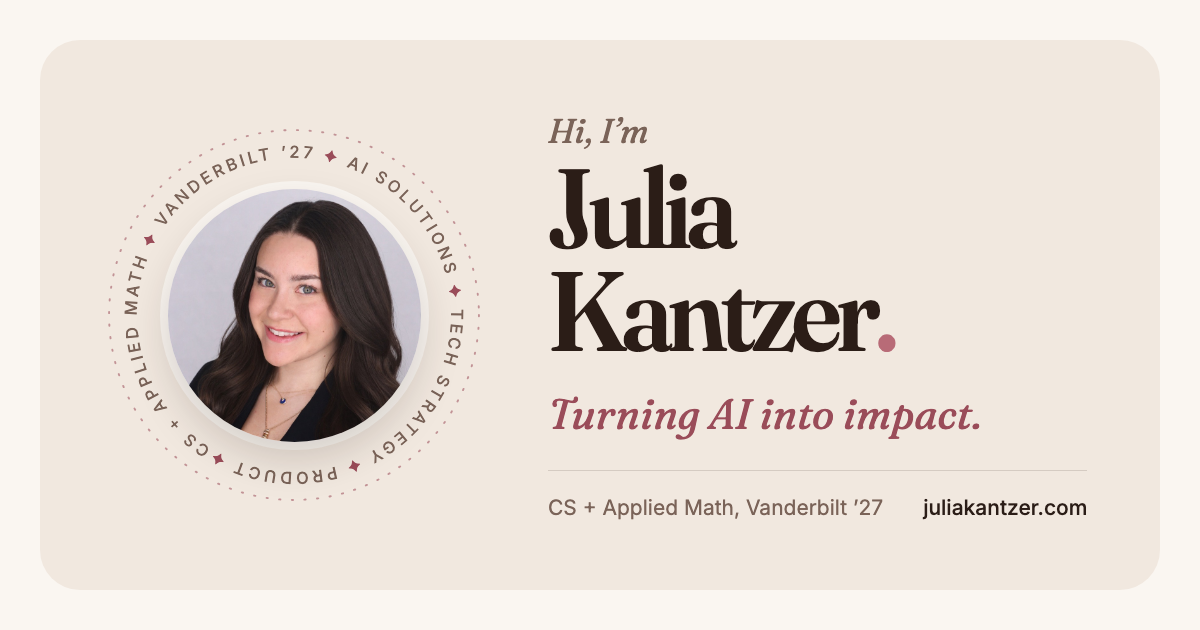
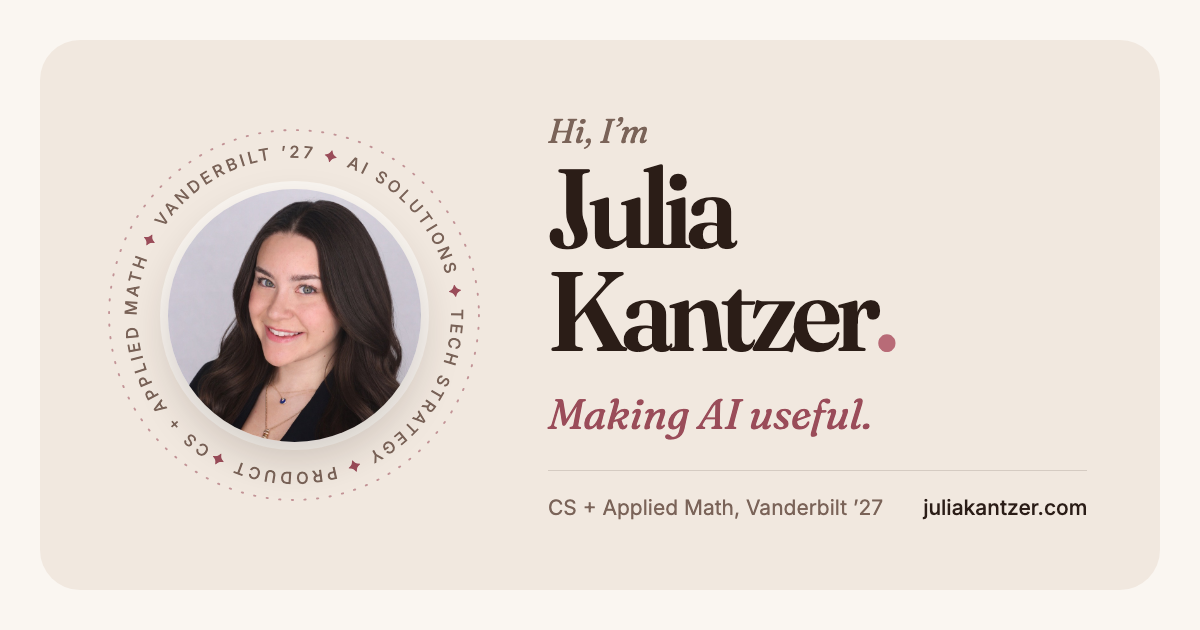
Change the tagline to "Making AI useful."
Updates the hero, the social preview image, and its alt text.

Changed region(s): [[0.4625, 0.6333, 0.8325, 0.6937]]

diff --git a/index.html b/index.html
@@ -21,7 +21,7 @@
     <meta property="og:image" content="https://www.juliakantzer.com/og-image.png?v=3" />
     <meta property="og:image:width" content="1200" />
     <meta property="og:image:height" content="630" />
-    <meta property="og:image:alt" content="Julia Kantzer. Turning AI into impact." />
+    <meta property="og:image:alt" content="Julia Kantzer. Making AI useful." />
     <meta name="twitter:card" content="summary_large_image" />
     <meta name="twitter:title" content="Julia Kantzer | AI Solutions, Strategy, and Technical Programs" />
     <meta

diff --git a/scripts/og-image.html b/scripts/og-image.html
@@ -180,7 +180,7 @@
       <div class="copy">
         <p class="hi">Hi, I’m</p>
         <h1>Julia<br />Kantzer<span>.</span></h1>
-        <p class="tagline">Turning AI into impact.</p>
+        <p class="tagline">Making AI useful.</p>
         <p class="meta"><span>CS + Applied Math, Vanderbilt ’27</span><b>juliakantzer.com</b></p>
       </div>
     </div>

diff --git a/src/content.ts b/src/content.ts
@@ -10,7 +10,7 @@ export const site = {
   name: 'Julia Kantzer',
   firstName: 'Julia',
   role: 'AI Solutions, Strategy, and Technical Programs',
-  tagline: 'Turning AI into impact.',
+  tagline: 'Making AI useful.',
   location: 'Nashville, TN',
   email: 'juliakantzer@gmail.com',
   linkedin: 'https://www.linkedin.com/in/julia-kantzer/',
